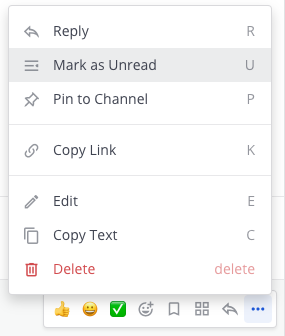
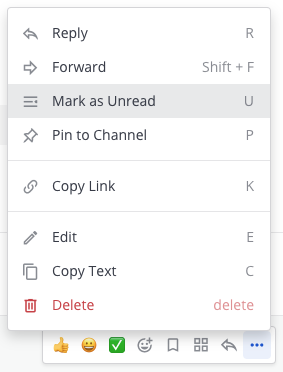
Updated/added screenshots for more options

diff --git a/source/channels/share-links.rst b/source/channels/share-links.rst
@@ -24,7 +24,15 @@ Share links to messages
 .. |more-icon| image:: ../images/dots-horizontal_F01D8.svg
   :alt: Use the More icon to access additional message options.
 
-To share links to messages in Mattermost, select the **More** |more-icon| icon next to a message, then select **Copy Link**. Paste the link into a message to share the image link with others. Sharing links to messages generates a preview of the message.
+To share links to messages in Mattermost, select the **More** |more-icon| icon next to a message, then select **Copy Link**. 
+
+.. image:: ../images/message-more.png
+  :alt: When you hover over messages, you can access more message options from the More icon.
+
+.. image:: ../images/copy-link.png
+  :alt: You can share links to messages with others using the More option.
+
+Paste the link into a message to share the image link with others. Sharing links to messages generates a preview of the message.
 
 .. image:: ../images/permalink-previews.png
    :alt: Mattermost generates previews of links shared in Channels.

diff --git a/source/channels/forward-messages.rst b/source/channels/forward-messages.rst
@@ -21,7 +21,15 @@ Forward messages
 .. |more-icon| image:: ../images/dots-horizontal_F01D8.svg
   :alt: Use the More icon to access additional message options.
 
-To forward messages in Mattermost, select the **More** |more-icon| icon next to a message, then select **Forward**. Specify where you want to forward the message, and include an optional comment. Forwarding messages generates a preview of the message.
+To forward messages in Mattermost, select the **More** |more-icon| icon next to a message, then select **Forward**. 
+
+.. image:: ../images/message-more.png
+  :alt: When you hover over messages, you can access more message options from the More icon.
+
+.. image:: ../images/forward-message.png
+  :alt: You can forward messages to others using the More option.
+
+Specify where you want to forward the message, and include an optional comment. Forwarding messages generates a preview of the message.
 
 .. image:: ../images/permalink-previews.png
    :alt: Mattermost generates previews of links shared in Channels.

diff --git a/source/channels/save-pin-messages.rst b/source/channels/save-pin-messages.rst
@@ -32,7 +32,7 @@ Save messages for later follow up by selecting the **Save** |save-icon| icon nex
   :alt: Save icon.
 
 .. image:: ../images/save-message.png
-   :alt: Save messages for later follow up.
+   :alt: Save messages for later follow up using the Save option.
 
 See your saved messages
 ~~~~~~~~~~~~~~~~~~~~~~~
@@ -45,6 +45,7 @@ Unsave messages
 To remove an item from your **Saved Posts** list, select the **Save** icon next to message to clear it.
 
 .. image:: ../images/remove-from-saved-posts.png
+  :alt: Remove saved messages by toggling the Save option.
 
 Pin messages
 ------------
